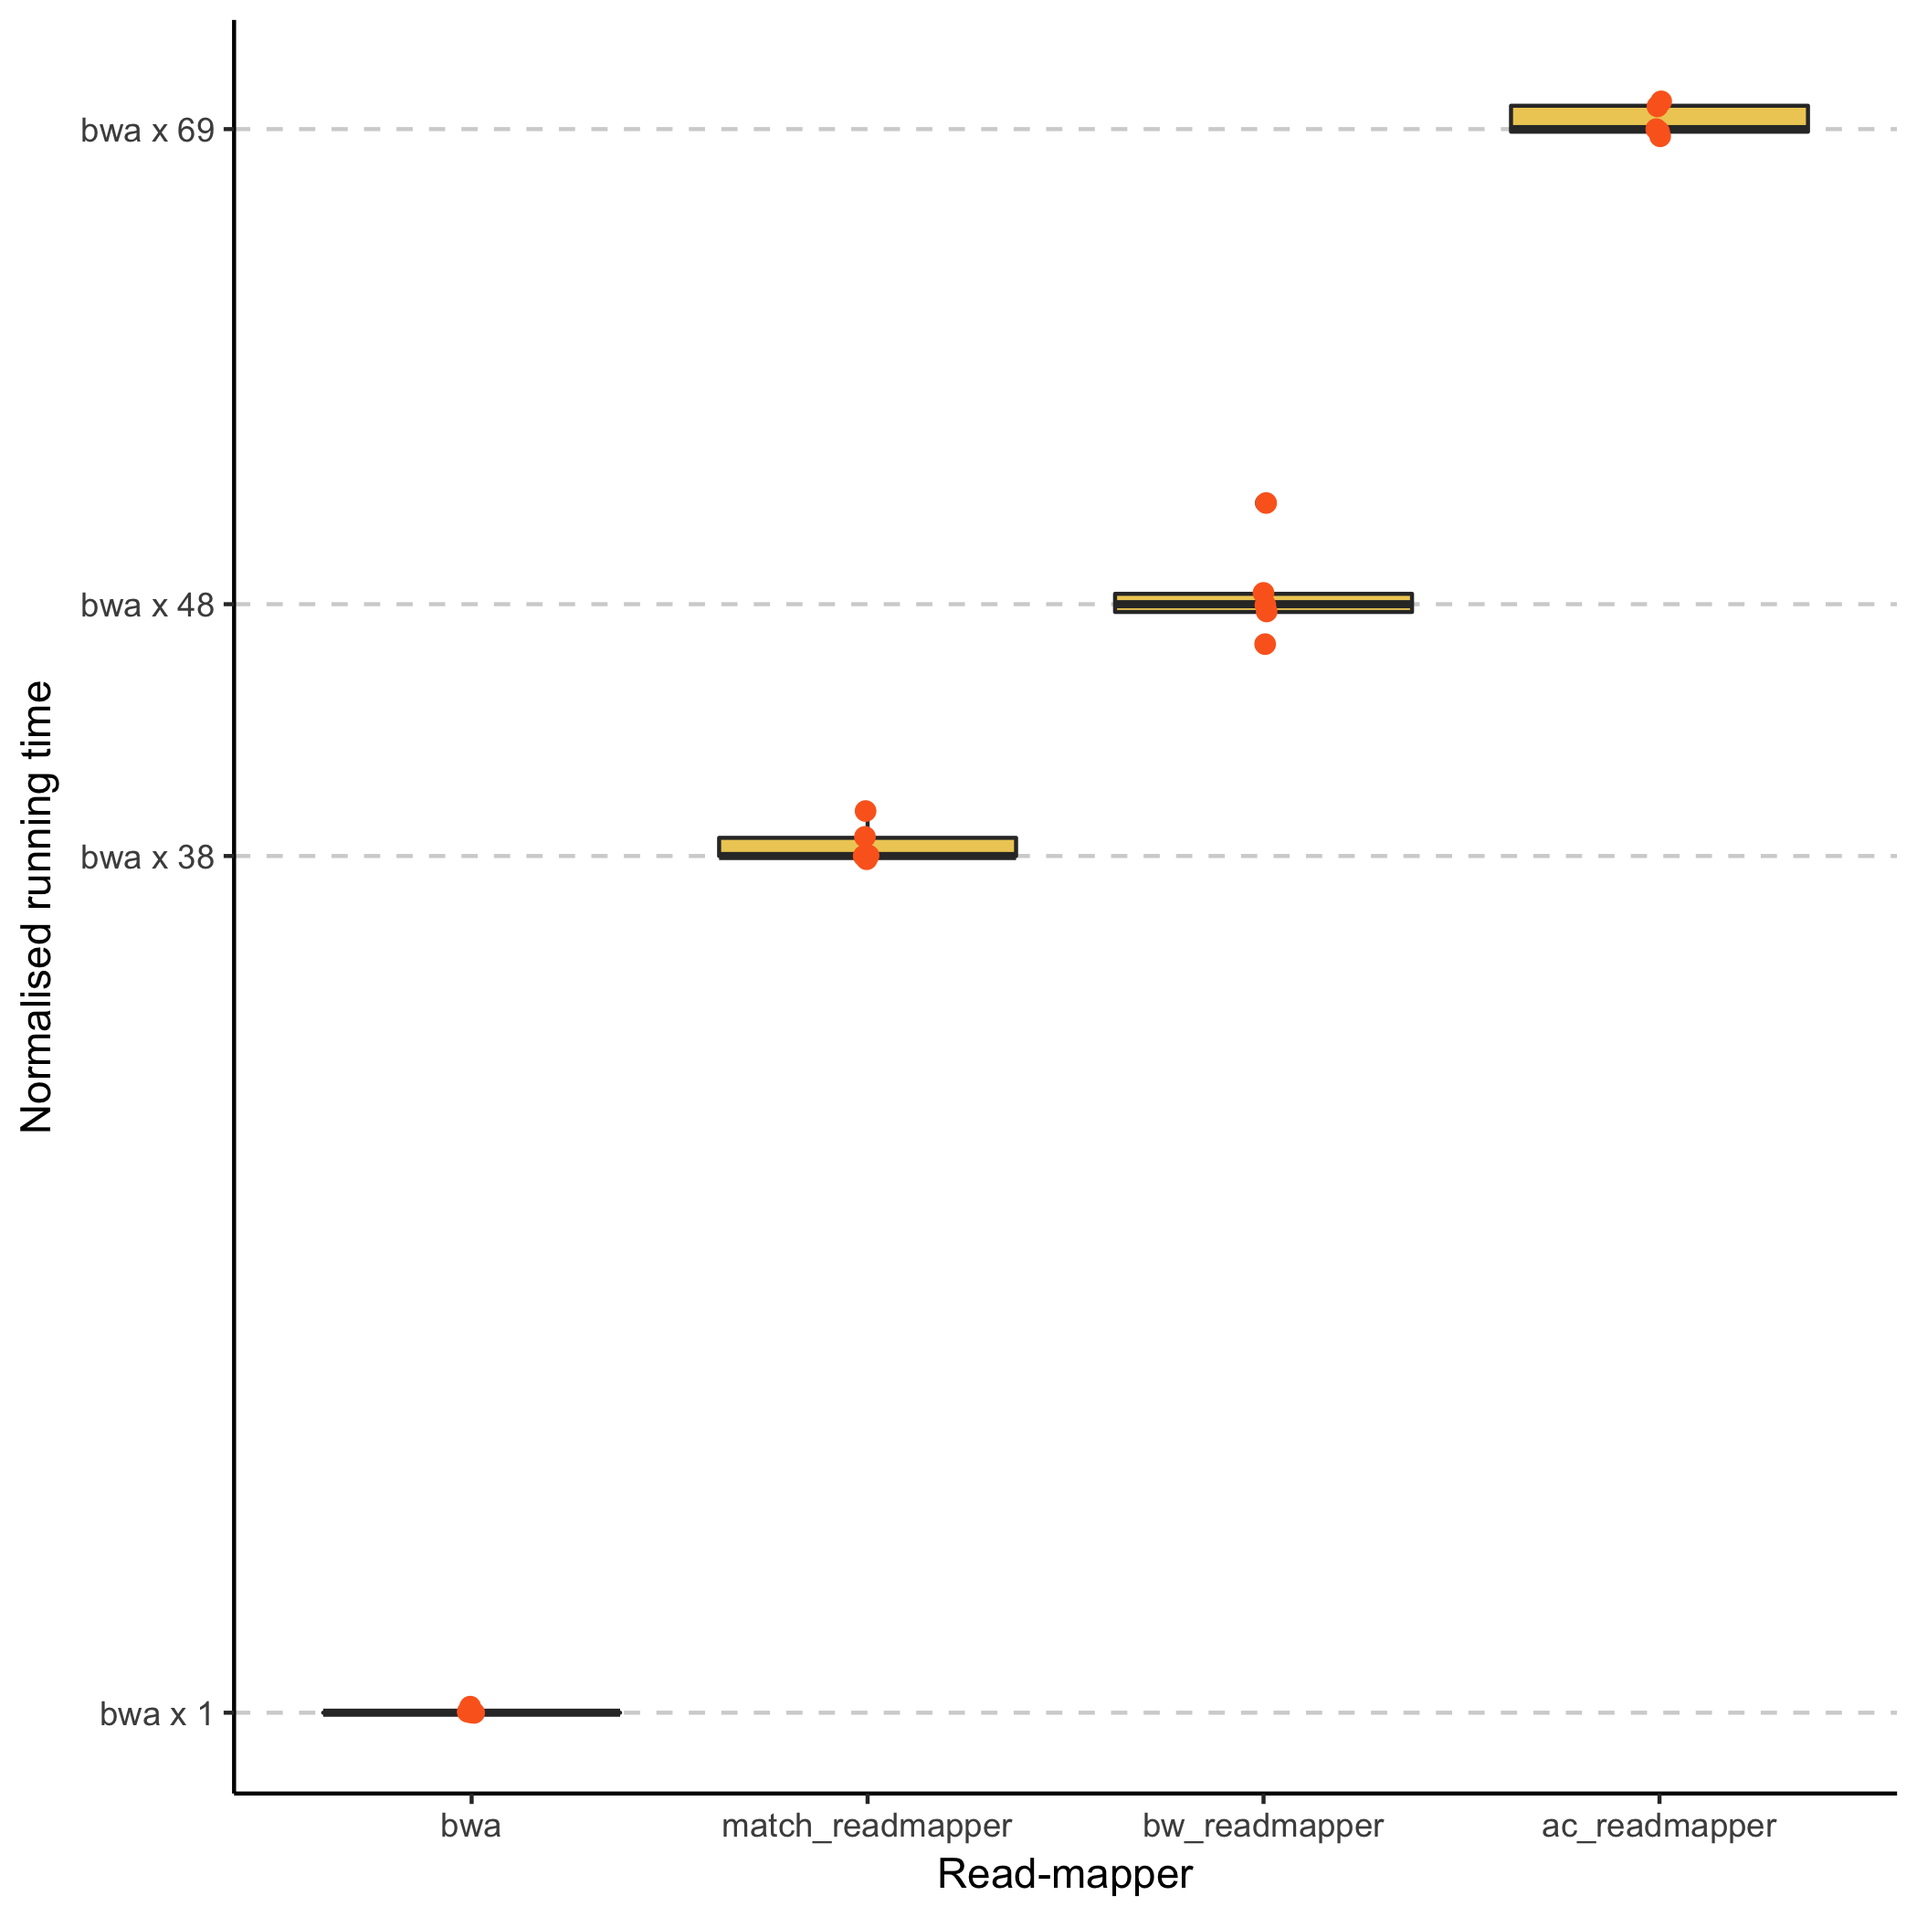
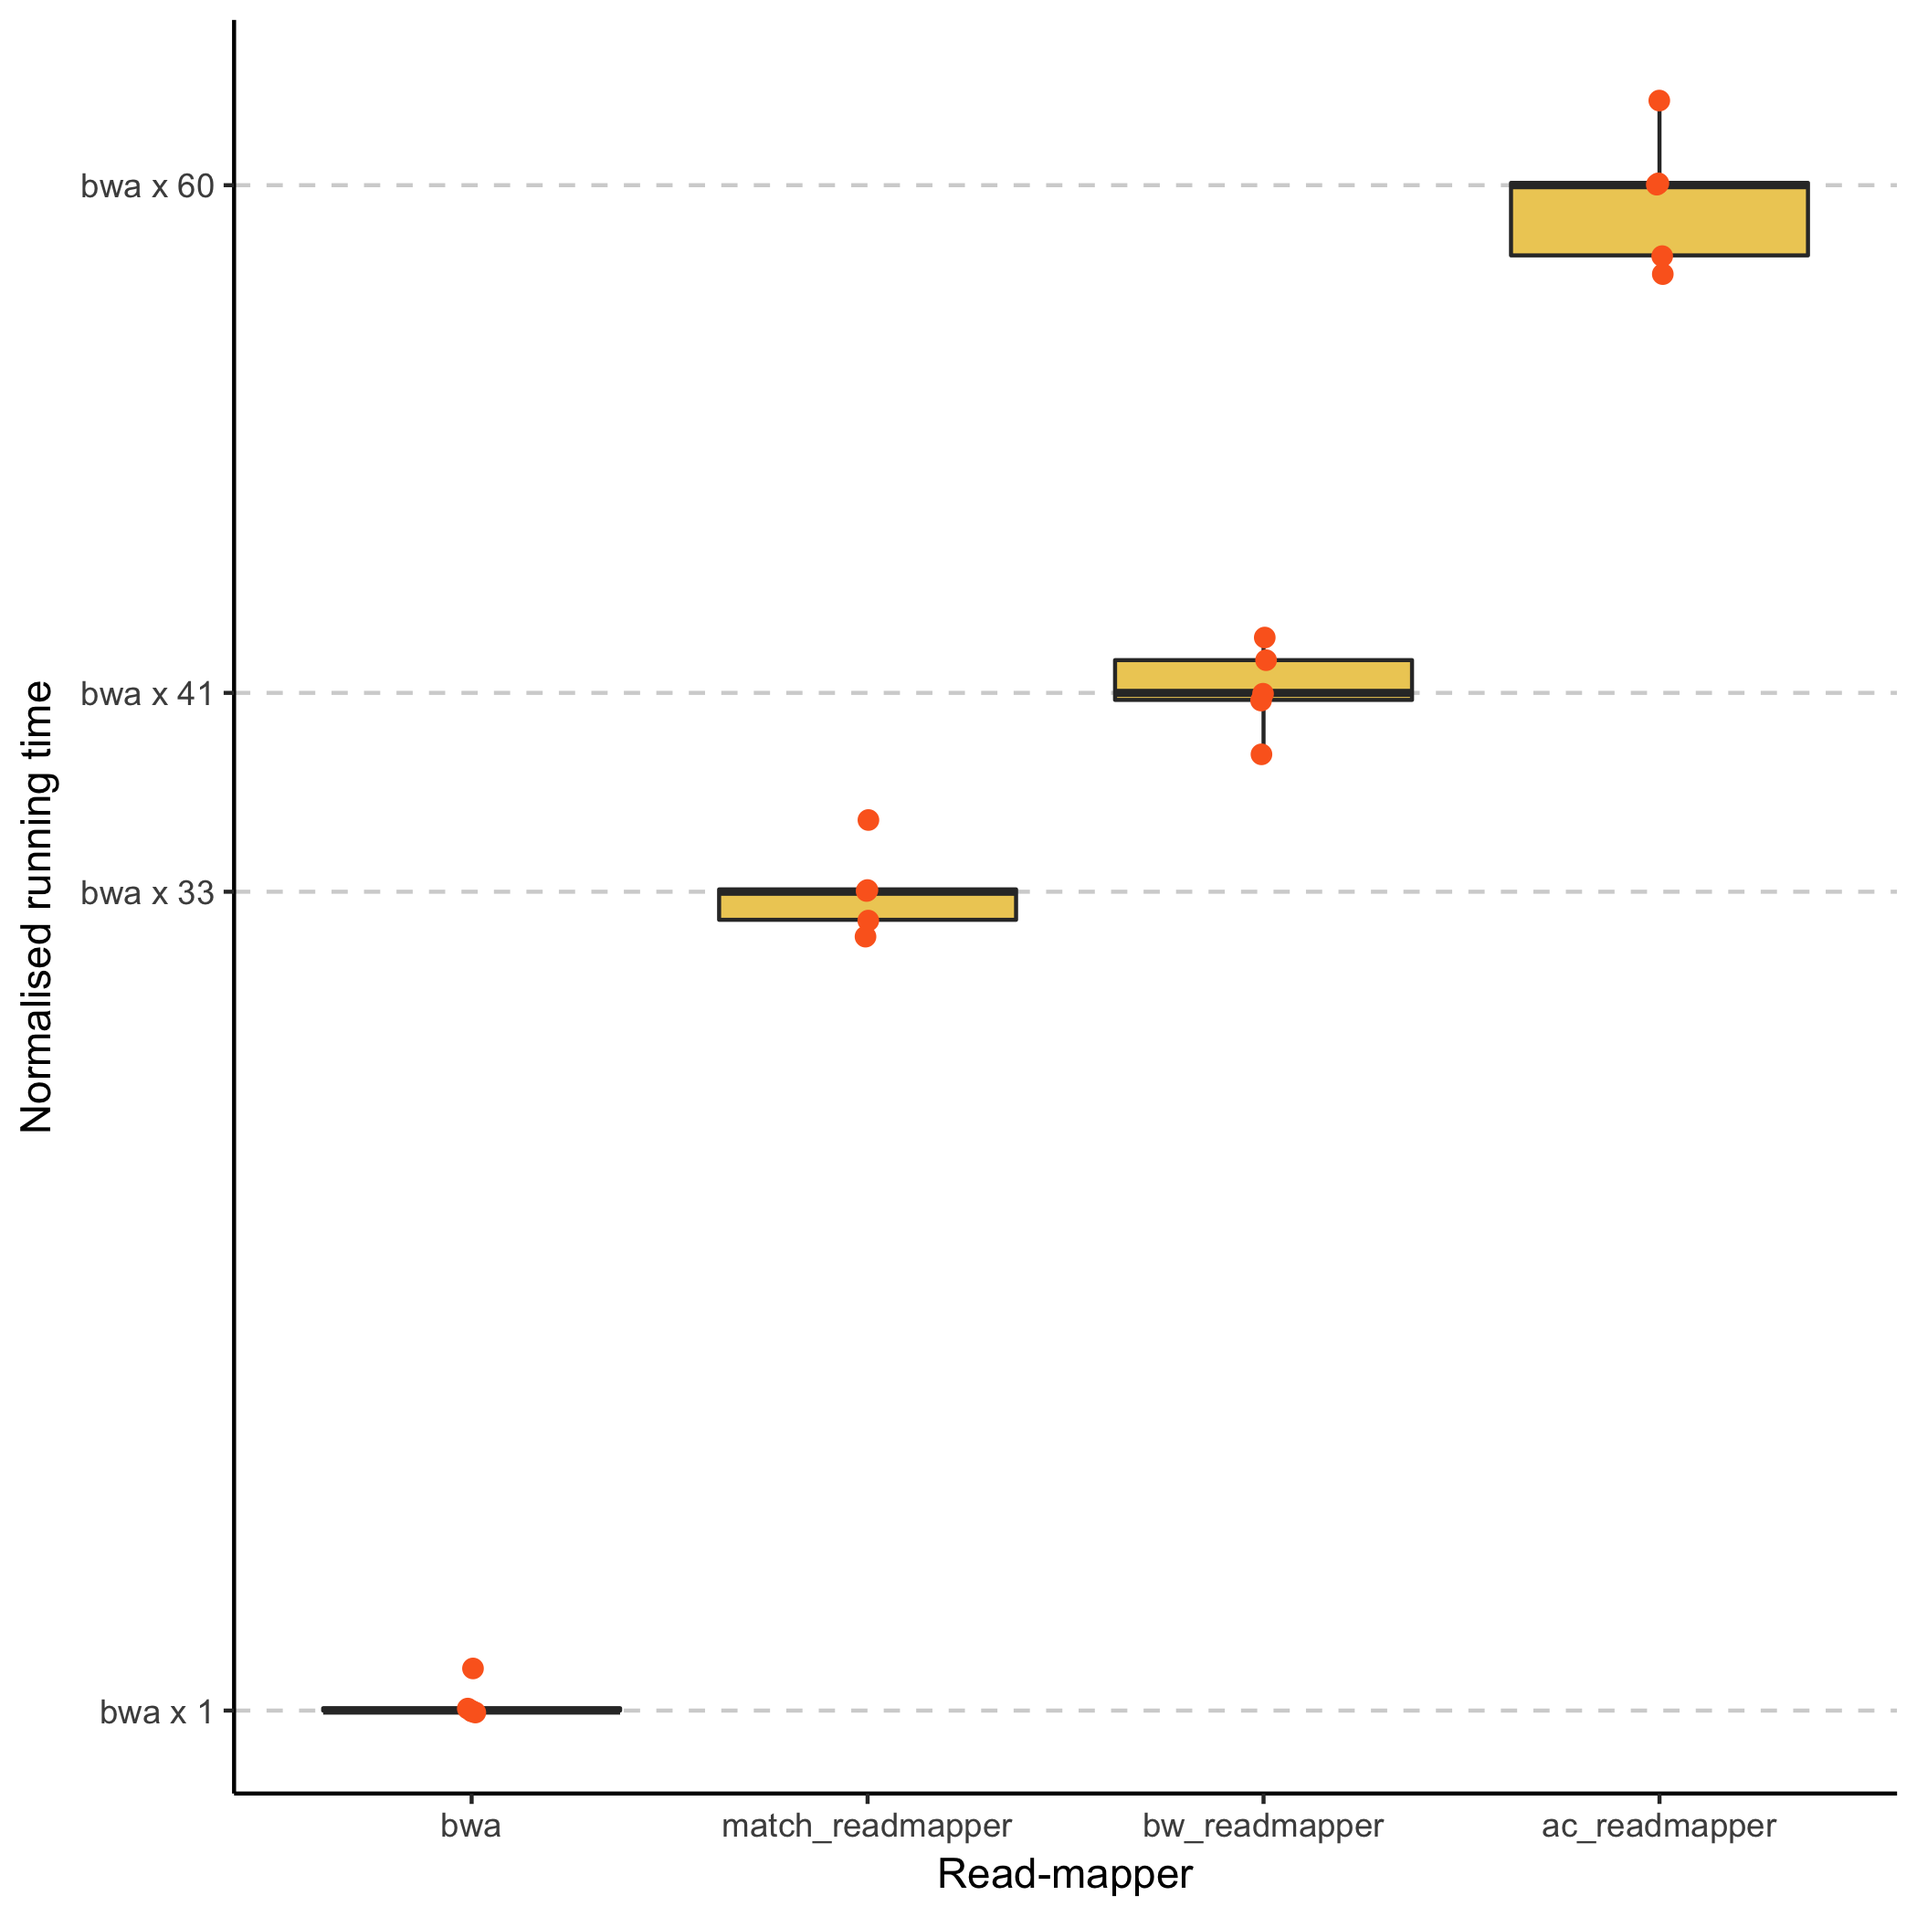
updated documentation

diff --git a/README.md b/README.md
@@ -50,7 +50,7 @@ If you invoke
 make test
 ```
 
-you will run the scripts [`evaluation/test_mapper_exact.sh`](https://github.com/mailund/gsa-read-mapper/blob/master/evaluation/test_mappers_exact.sh) and [`evaluation/test_mapper_approximative.sh`](https://github.com/mailund/gsa-read-mapper/blob/master/evaluation/test_mappers_approximative.sh). This scripts use a reference implementation to build a SAM file and then it tests that all the other mappers specified in the script produce the same SAM file. As you probably have guessed from the names, the first script tests exact pattern matching and the second approximative pattern matching. You can also invoke them individually using `make test_exact` and `make test_approximative`. 
+you will run the scripts [`evaluation/test_mapper_exact.sh`](https://github.com/mailund/gsa-read-mapper/blob/master/evaluation/test_mappers_exact.sh) and [`evaluation/test_mapper_approximative.sh`](https://github.com/mailund/gsa-read-mapper/blob/master/evaluation/test_mappers_approximative.sh). These scripts use a reference implementation to build a SAM file and then it tests that all the other mappers specified in the script produce the same SAM file. As you probably have guessed from the names, the first script tests exact pattern matching and the second approximative pattern matching. You can also invoke them individually using `make test_exact` and `make test_approximative` or, of course, by simply executing the scripts.
 
 You can modify the [header of the scripts](https://github.com/mailund/gsa-read-mapper/blob/a748068714fabeb8989382664c1dfea8e87fb79b/evaluation/test_mappers.sh#L3-L25) to configure how the tests are run.
 
@@ -163,15 +163,17 @@ The preprocessing- and run-scripts are also used by the evaluation script. The s
 
 A successful evaluation should look something like this:
 
-![](images/sucessful-evaluation.png)
+![](images/sucessful-evaluation-exact.png)
 
-Here, we see that the fastest mapper, not surprisingly, is `bwa`, then the `match_readmapper` and slowest is the `ac_readmapper`. This is slightly misleading, though; the `match_readmapper` is faster than the `ac_readmapper` when `d` is zero. When we are searching for one read at a time, the benefits of the Aho-Corsick algorithm are not present but the overhead is. Setting `d` to one, however, will make the script unreasonably slow, so remove `match_readmapper` before you do that. Or don’t and learn the hard way that I am right.
+Here, we see that the fastest mapper, not surprisingly, is `bwa`, then the `match_readmapper` followed by the other two. This is slightly misleading, though; the `match_readmapper` is slightly faster than the `bw_readmapper` and much faster than the `ac_readmapper` when `d` is zero. When we are searching for one read at a time, the benefits of the Burrows-Wheeler and Aho-Corsick algorithms are not present but the overhead is. Setting `d` to one, however, will make the script unreasonably slow. The `evaluate_mappers_approximative.sh` script uses a default of `d=1` and excludes `match_readmapper`. With a small enough data set you can try to add `match_readmapper` to it and see how it goes.
+
+![](images/successful-evaluation-approximative.png)
 
 ### Plotting the performance evaluation
 
-If you have `R` installed, the evaluation script will use it to plot the performance results. You should get a plot that looks like the one at the bottom of this page. Actually, if you use git and push changes to GitHub, the plot at the bottom of this page *is* the results of the last evaluation you ran.
+If you have `R` installed, the evaluation scripts will use it to plot the performance results. You should get a plot that looks like the ones at the bottom of this page. Actually, if you use git and push changes to GitHub, the plots at the bottom of this page *are* the results of the last evaluation you ran.
 
-In the plot, all times are normalised by dividing by the mean running time of the fastest mapper — if you haven’t modified the list of mappers, this is likely to be `bwa` — so running times, shown on the y-axis, are measured in factors of the fastest mapper. So, if your mapper is plotted at y=100 it means that it is one hundred times slower than the fastest.
+In the plots, all times are normalised by dividing by the mean running time of the fastest mapper — if you haven’t modified the list of mappers, this is likely to be `bwa` — so running times, shown on the y-axis, are measured in factors of the fastest mapper. This means that if your mapper is plotted at y=100 it means that it is one hundred times slower than the fastest.
 
 ## The data files
 
